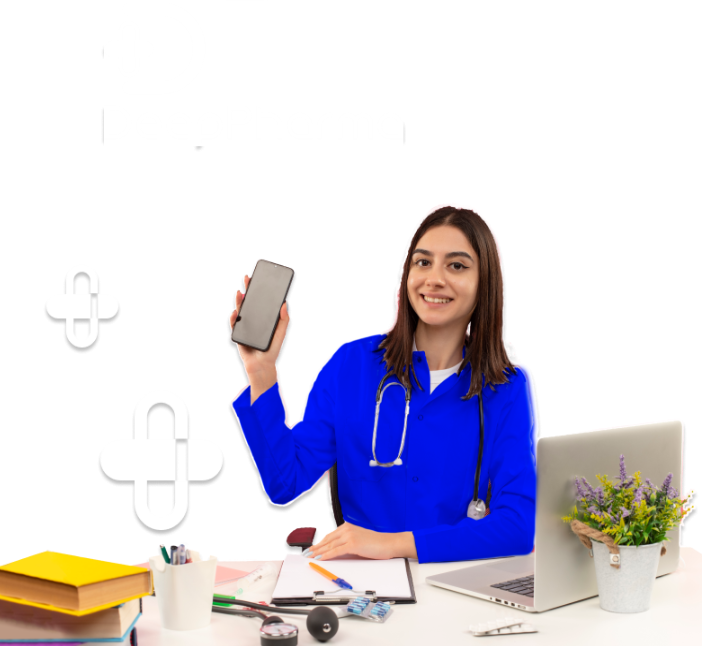
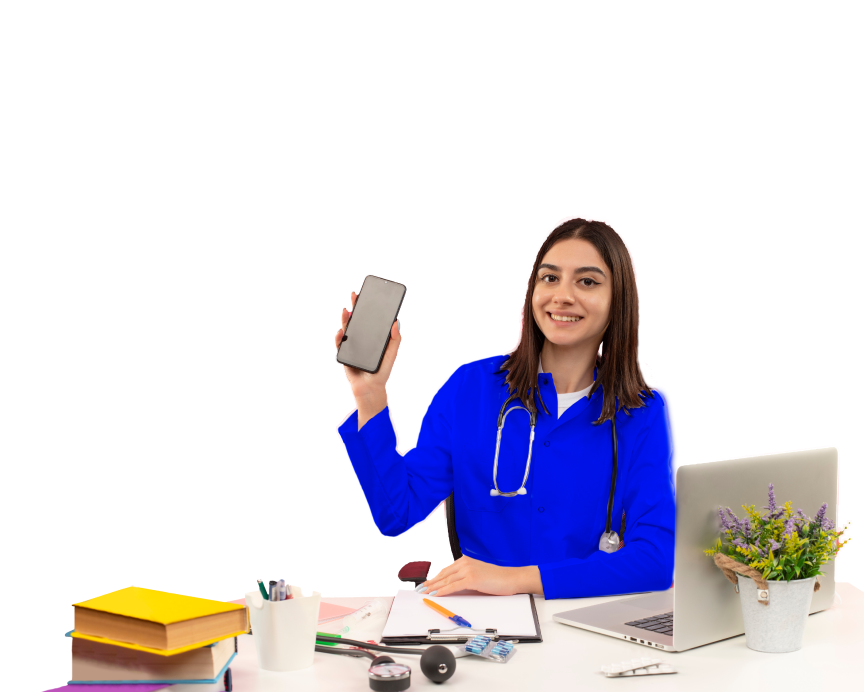
Onboarding ready to test

diff --git a/app/onboarding/page.tsx b/app/onboarding/page.tsx
@@ -1,32 +1,38 @@
 import Image from 'next/image';
-import girl from '@/public/images/assets/onboarding/onboarding-girl.png';
-import logo from '@/public/images/assets/onboarding-logo.png';
-import mobileimg from '@/public/images/assets/onboarding/onboarding-img.png';
+import onboardingImg from '@/public/images/assets/onboarding/onboarding-img.png';
+import deepLogo from '@/public/images/assets/deep-skill-logo.png';
+import onboardingVector from '@/public/images/assets/onboarding/onboarding-vector.png';
 
 const OnboardingPage = () => {
   return (
-    <main className="h-screen flex flex-col md:flex-row">
-      <div className="bg-orange h-full w-full rounded-b-[72px] relative">
-        {/* <Image
-          src={logo}
-          alt="Deep Pharma Logo"
-          className="w-2/5 absolute top-20 left-5"
-        />
-        <Image
-          src={girl}
-          alt="Girl w/ laptop"
-          className="object-contain rounded-b-[72px] shadow-md shadow-y-4 shadow-blur-4 absolute bottom-0"
-        /> */}
-        <Image
-          src={mobileimg}
-          alt="Girl w/ laptop"
-          className="w-full h-full object-cover rounded-b-[72px] shadow-md shadow-y-4 shadow-blur-4 absolute bottom-0"
-        />
+    <>
+      <div className="h-screen flex flex-col md:flex-row">
+        <div className="bg-orange h-1/2 w-full rounded-b-[72px] flex flex-col shadow-md shadow-y-4 shadow-blur-4 relative items-center overflow-hidden md:rounded-b-[0px] md:rounded-tr-[72px] md:w-1/2 md:h-full">
+          <Image
+            src={onboardingImg}
+            alt="Girl w/ laptop"
+            className="h-full object-contain object-bottom md:w-full"
+          />
+        </div>
+        <div className="bg-white w-full h-1/2 flex flex-col justify-center items-center gap-8 md:w-1/2 md:h-full">
+          <p className="w-4/5 text-center text-4xl font-bold text-orange md:text-6xl">
+            Gestiona tu inventario y haz crecer tu negocio.
+          </p>
+          <button
+            className="w-1/3 align-middle select-none font-sans font-bold text-center transition-all text-s py-3 px-6 bg-orange text-white shadow-2xl  hover:shadow-lg hover:shadow-gray-900/20 focus:opacity-[0.85] focus:shadow-none active:opacity-[0.85] active:shadow-none rounded-full md:bg-white md:text-orange"
+            type="button"
+          >
+            Ingresar
+          </button>
+        </div>
       </div>
-      <div className="bg-white w-full h-1/2">
-        <p>Botón</p>
+      <div className="absolute bottom-0 right-0 md:top-0">
+        <Image src={deepLogo} alt="Powered by Deep Skill" />
       </div>
-    </main>
+        <div className="absolute bottom-0 md:right-0 md:scale-x-[-1]">
+          <Image src={onboardingVector} alt="Powered by Deep Skill" />
+        </div>
+    </>
   );
 };
 export default OnboardingPage;

diff --git a/app/layout.tsx b/app/layout.tsx
@@ -22,7 +22,7 @@ export default function RootLayout({
       <UserProvider>
       <body className="h-full" >
       <MaterialProvider>
-        <NavBar />
+        {/* <NavBar /> */}
         {children}
       </MaterialProvider>
       </body>
